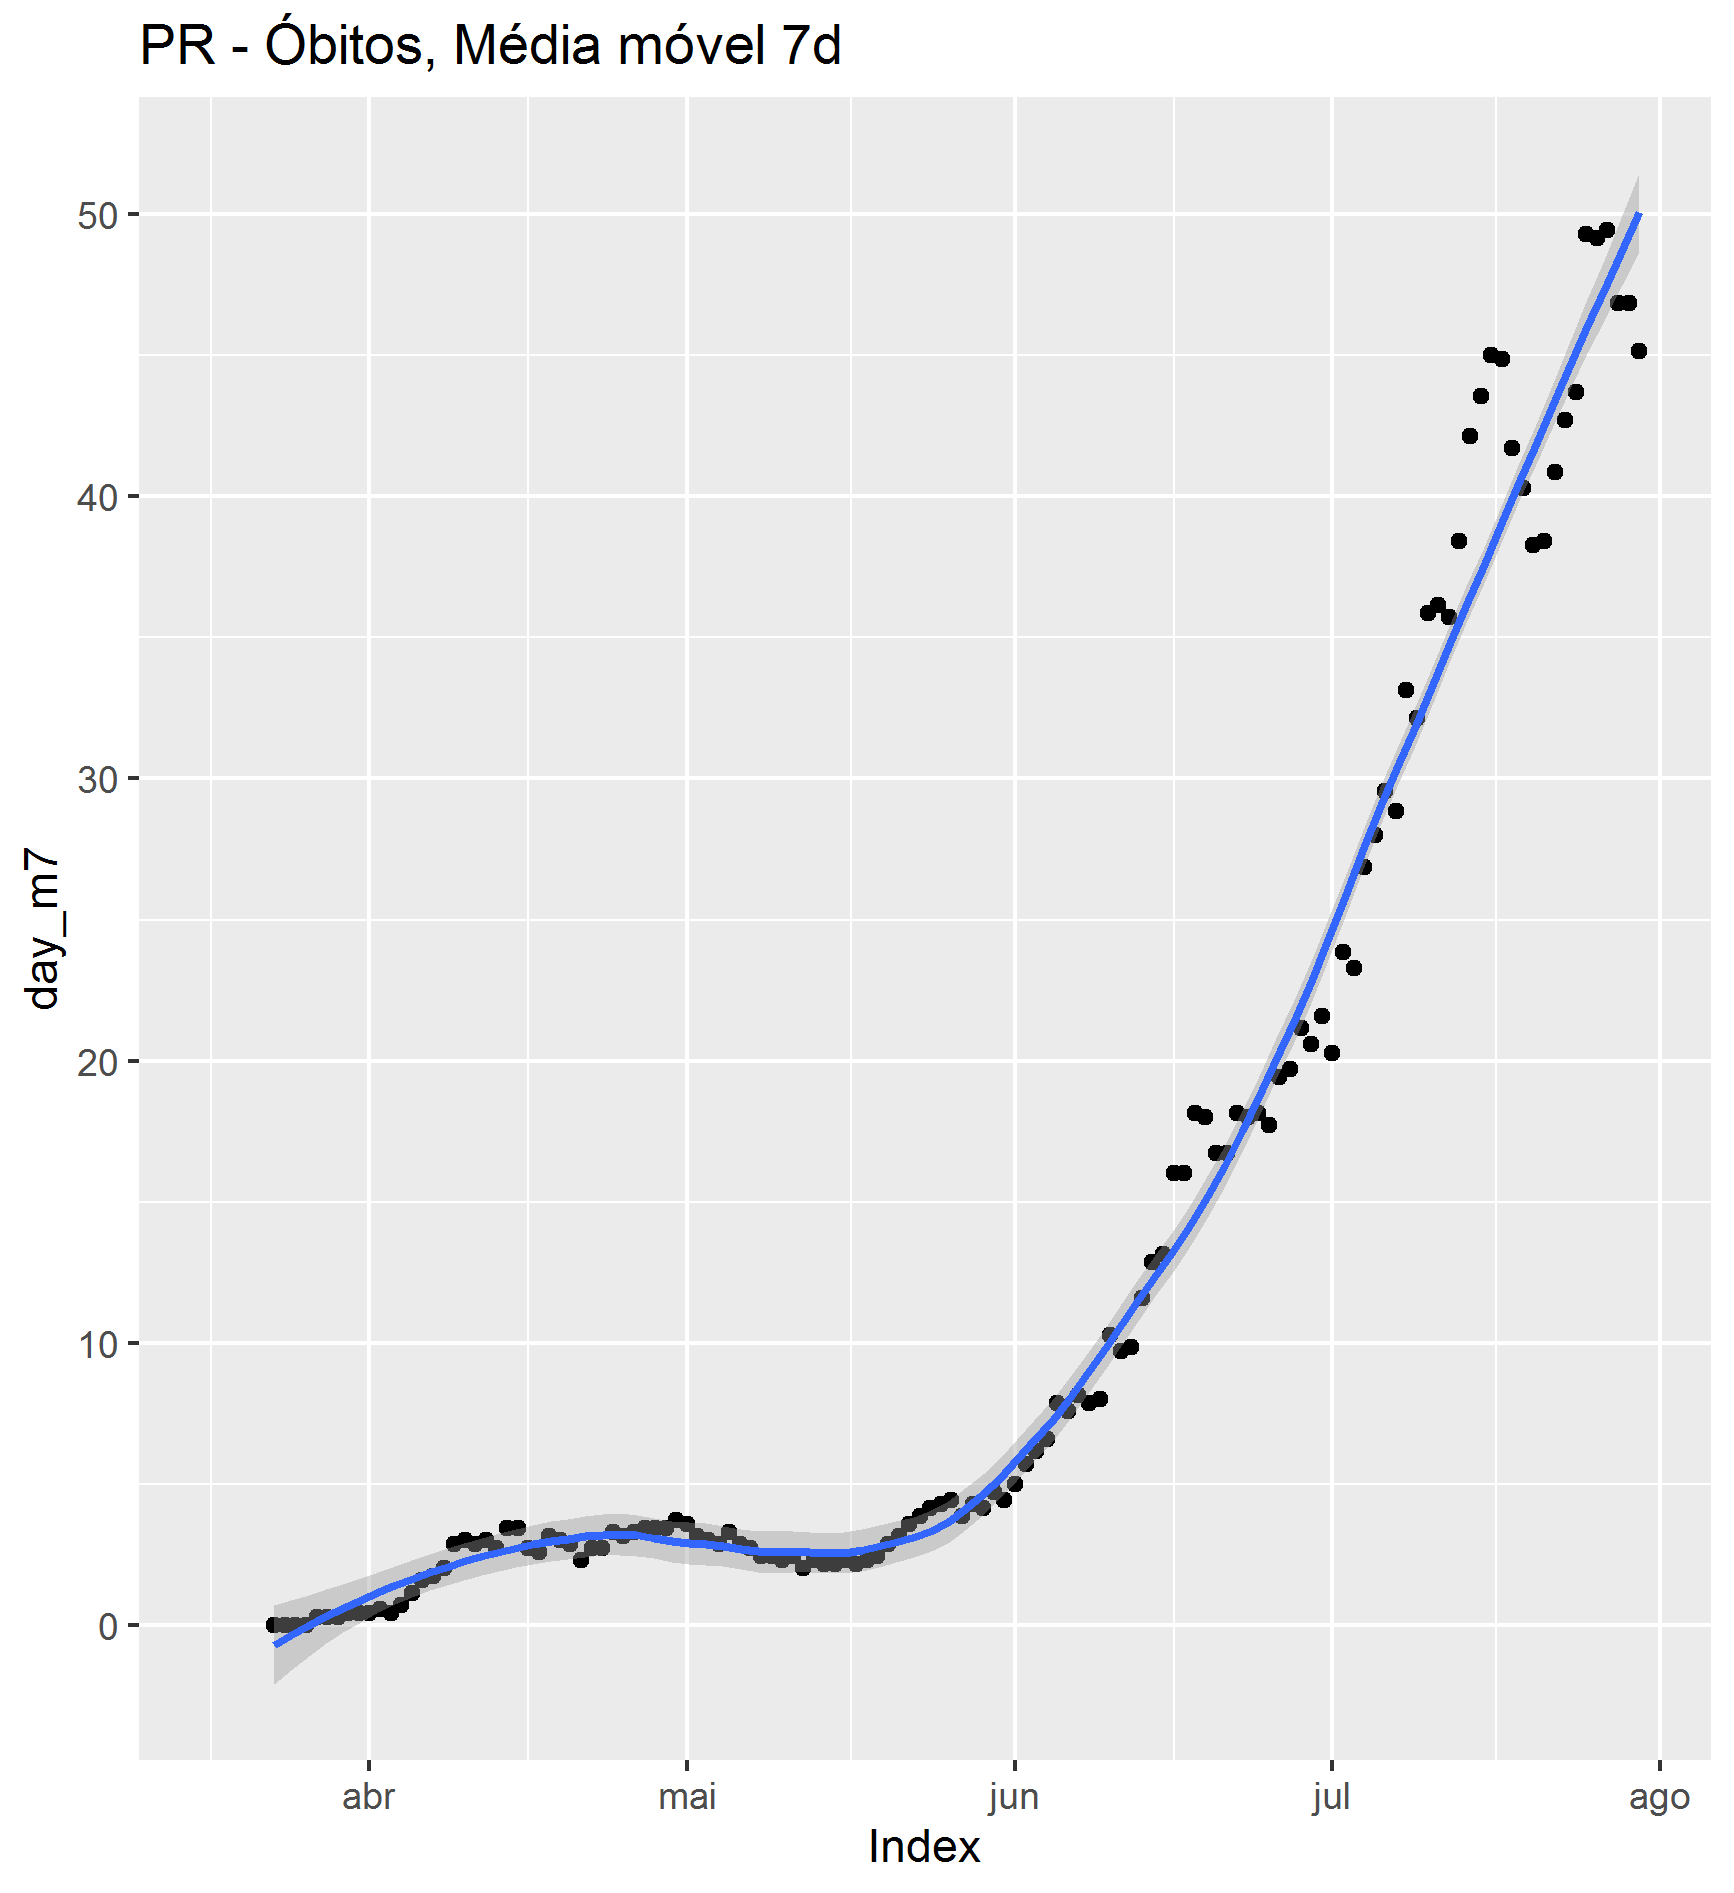
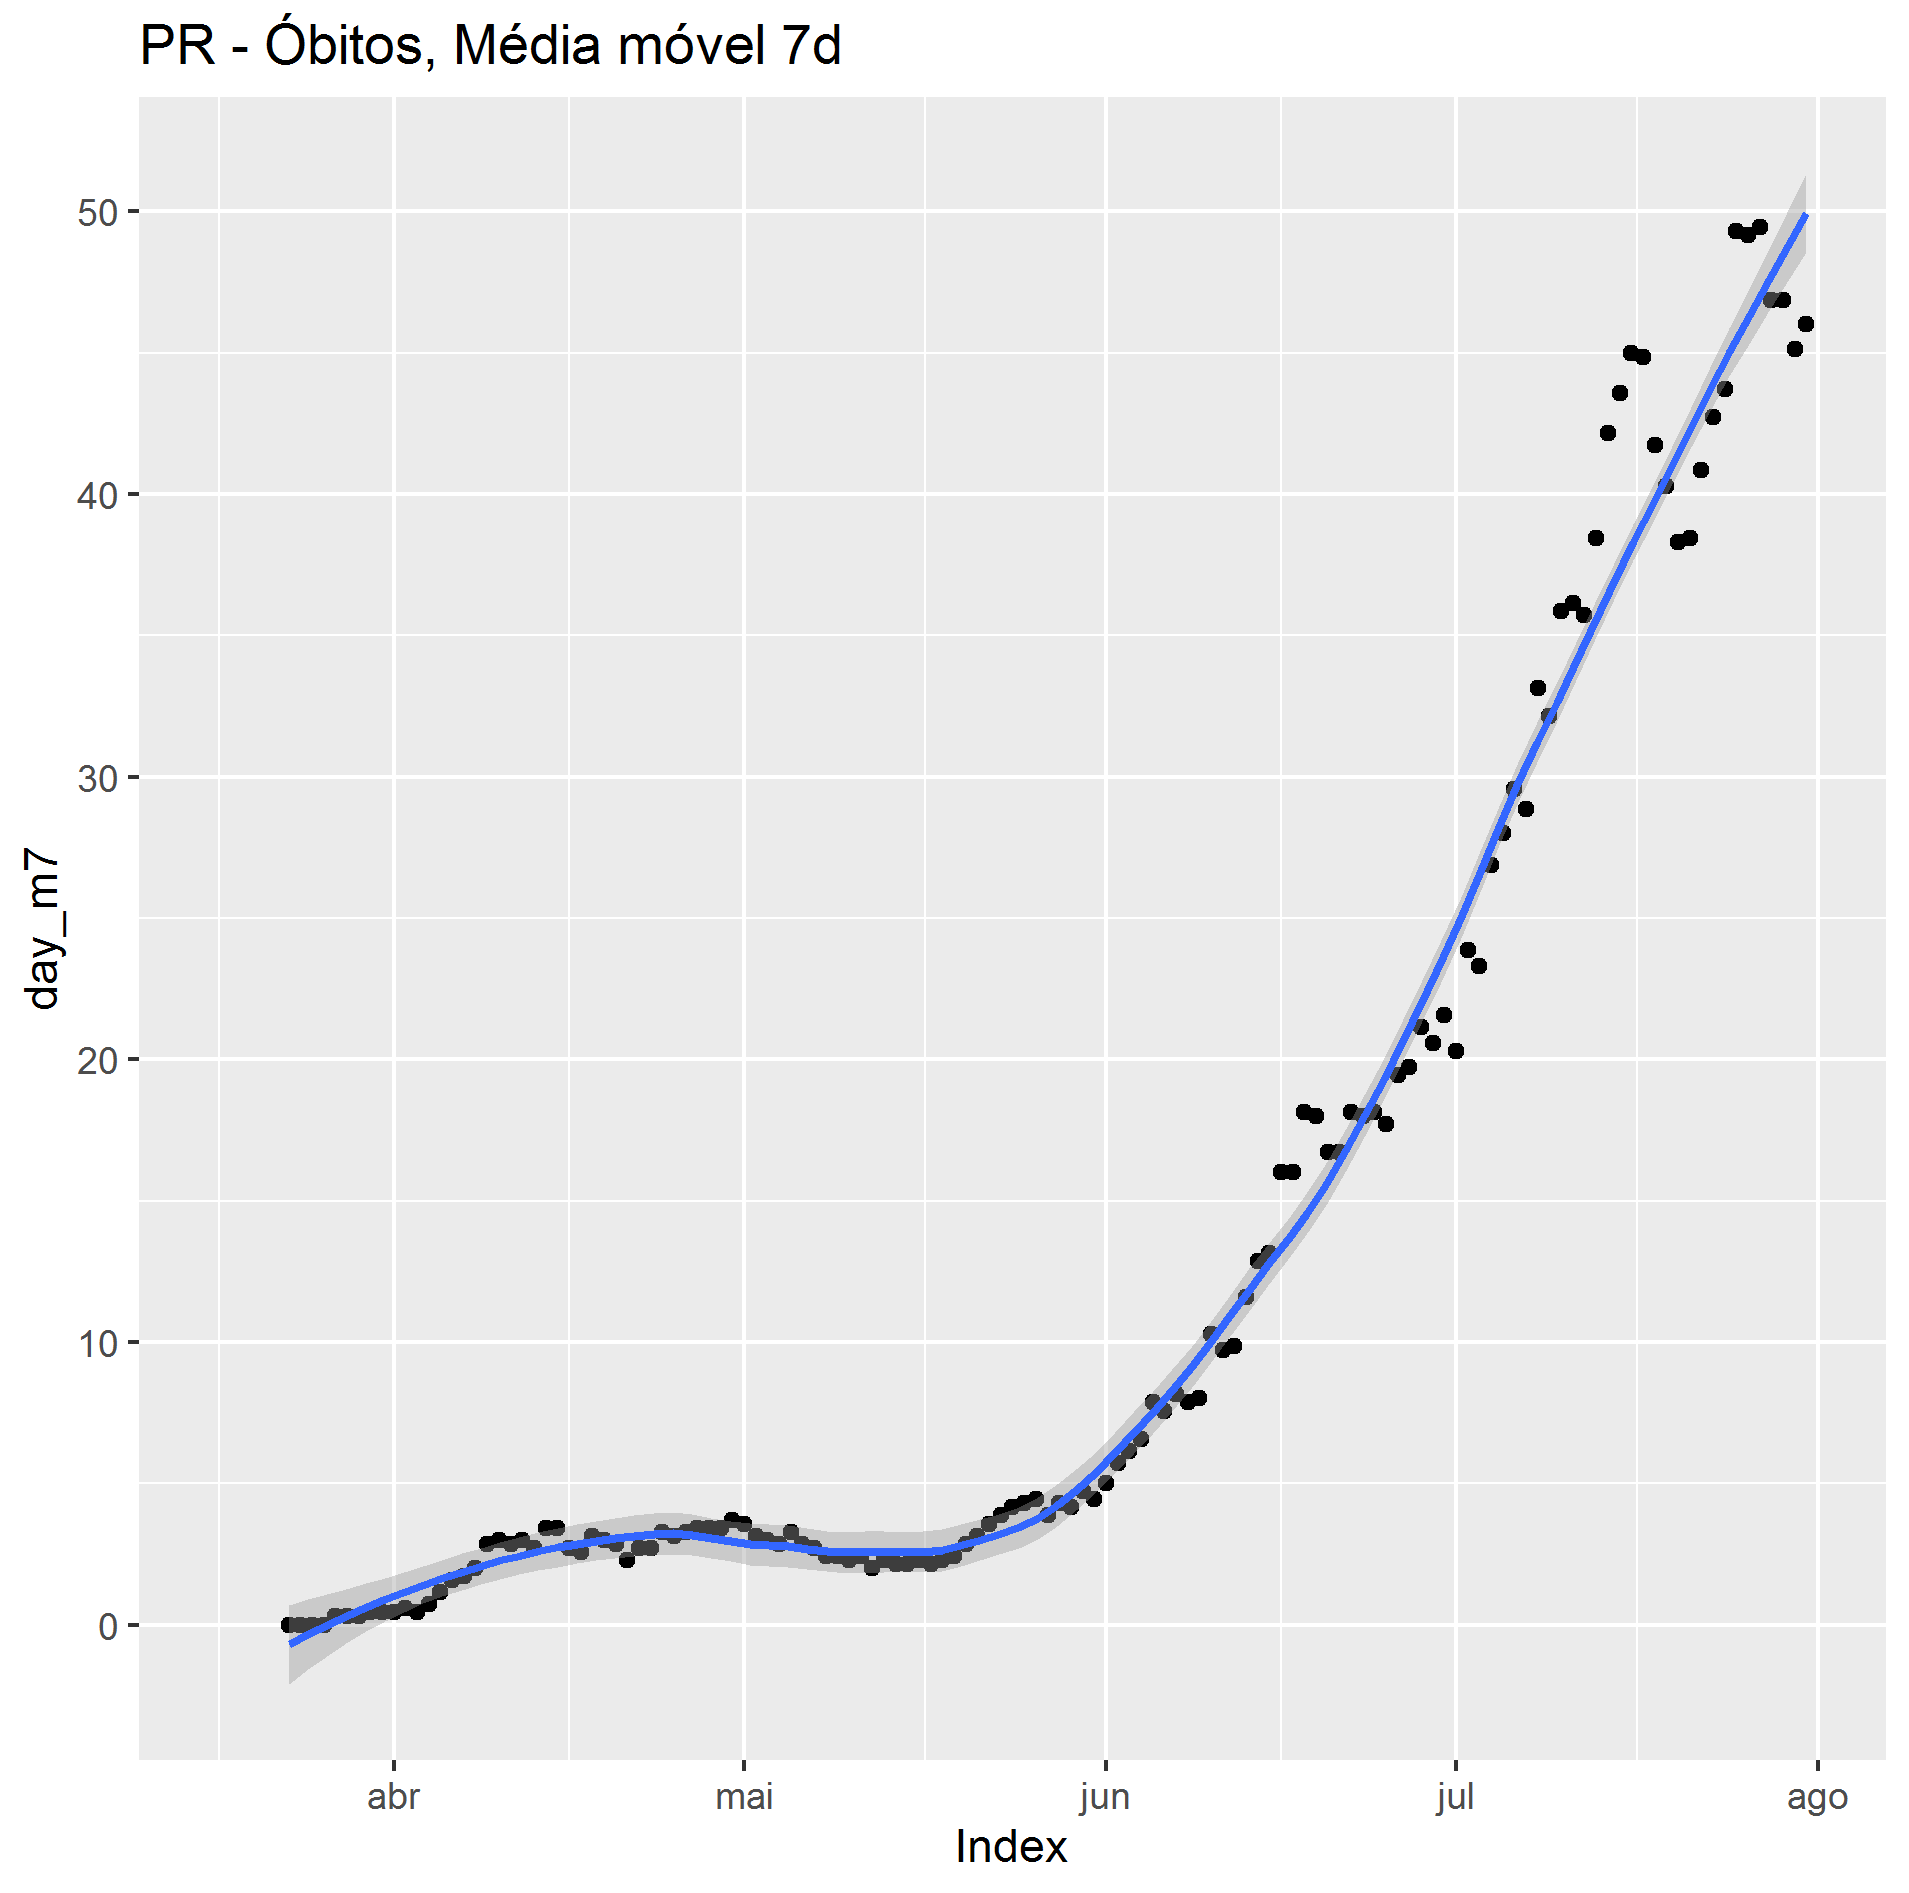
load.R: Added cities with ibge codes, BRCityStats similar to BRStateStats, todayStates and todayCities, cleanup of unused vars savePlots.R: Fixed label breaks for states_gl7, added cities_gl7 README.md: New, will display plots on GitHub landing page Updated plots

diff --git a/README.md b/README.md
@@ -1,0 +1,1 @@
+![Estados - Crescimento](plots/states_gl7.png "Estados Selecionados - Crescimento")
